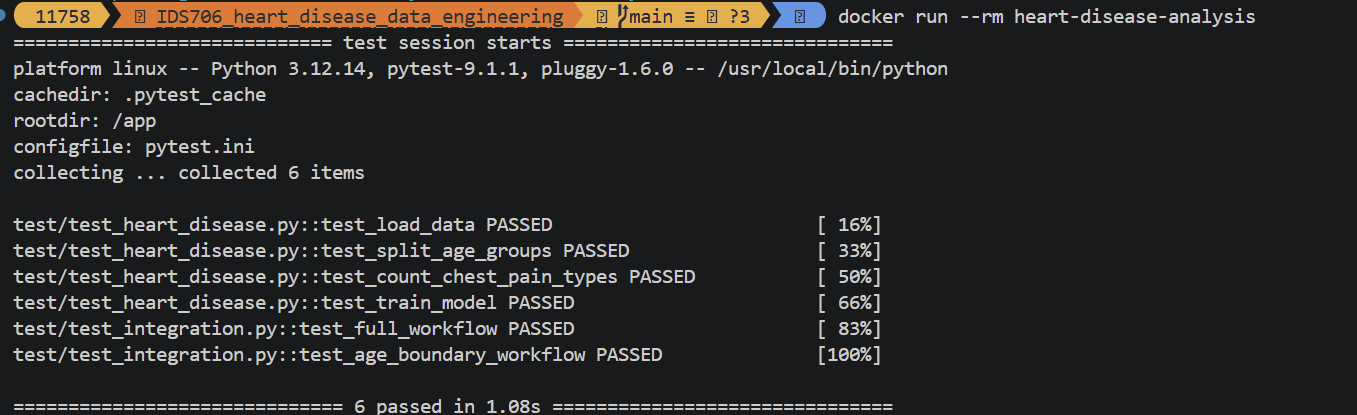
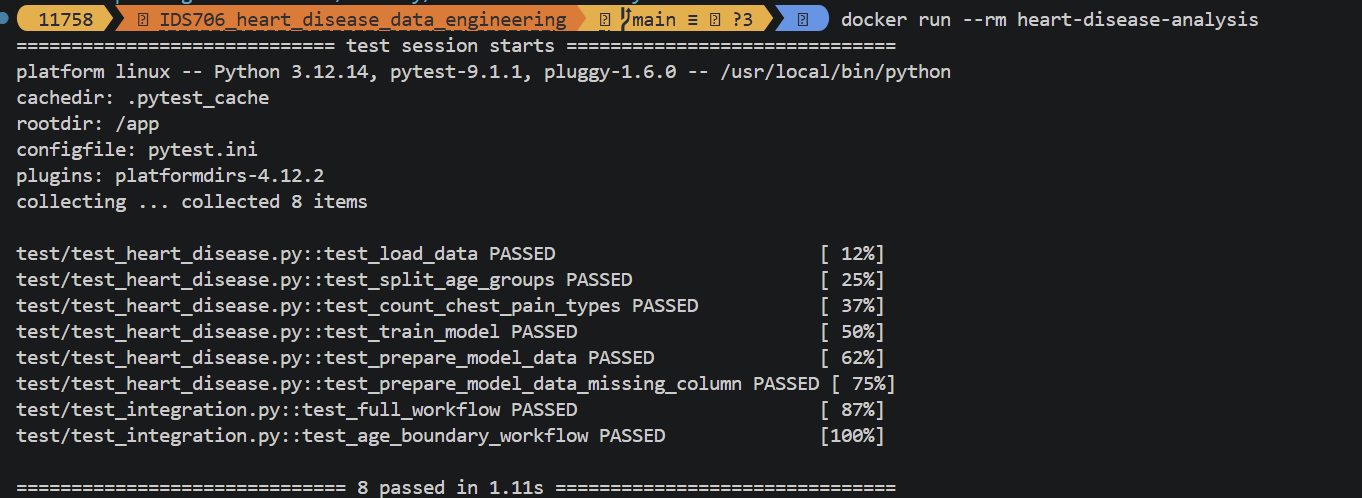
Update Docker verification after refactoring

diff --git a/README.md b/README.md
@@ -218,11 +218,11 @@ docker run --rm heart-disease-analysis
 
 The image includes Python 3.12, project dependencies, source code, data, and tests. Its default command runs the pytest suite, including the integration test for data loading, grouping, model training, and evaluation.
 
-The image built successfully, and all six tests passed inside the Linux container. The container exits after testing; `--rm` removes the container while preserving the image.
+The image built successfully, and all eight tests passed inside the Linux container. The container exits after testing; `--rm` removes the container while preserving the image.
 
 This exercise demonstrated how a Dockerfile packages a project environment and how an image is used to create a runnable container.
 
-<img src="docs/images/docker-tests.png" alt="Six project tests passing inside the Docker container" width="800">
+<img src="docs/images/docker-tests.png" alt="Eight project tests passing inside the Docker container" width="800">
 
 
 ## Refactoring and Code Quality
